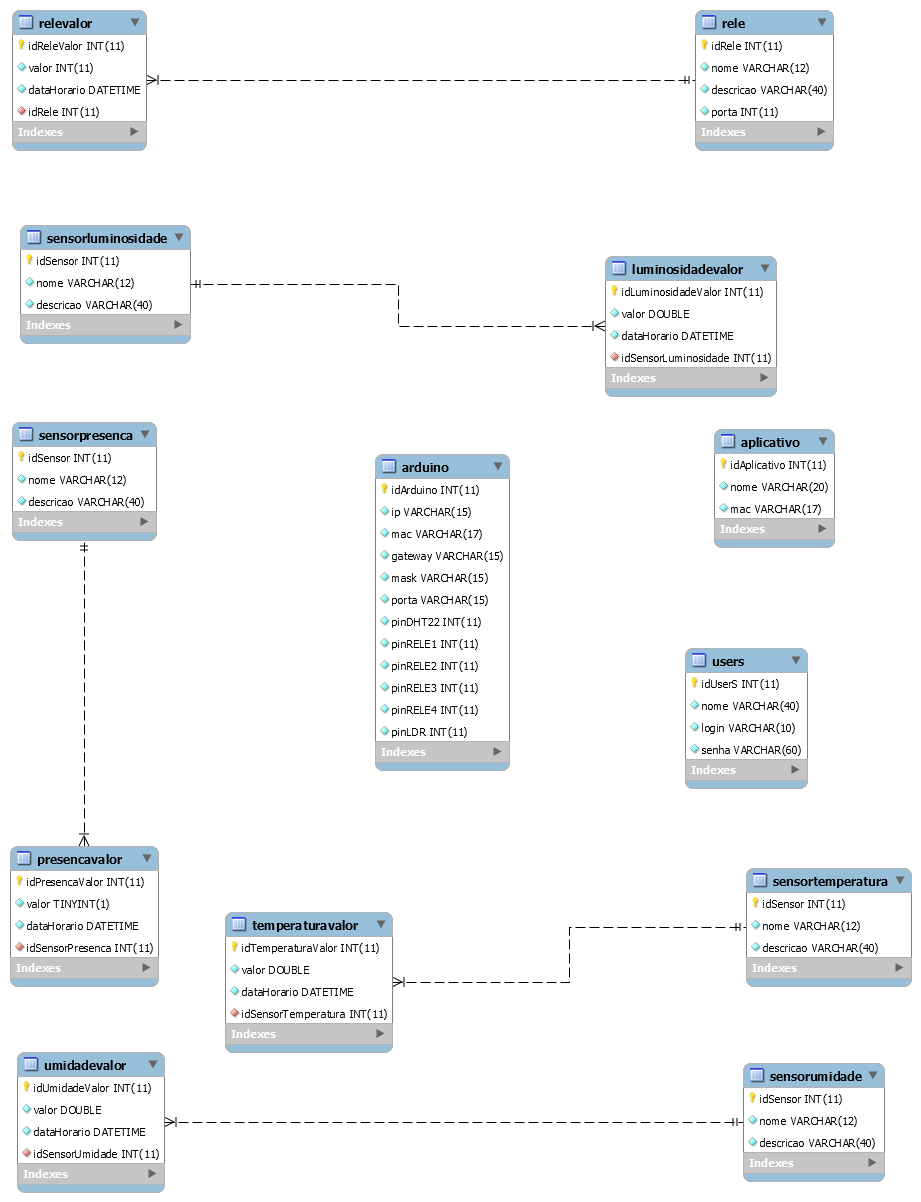
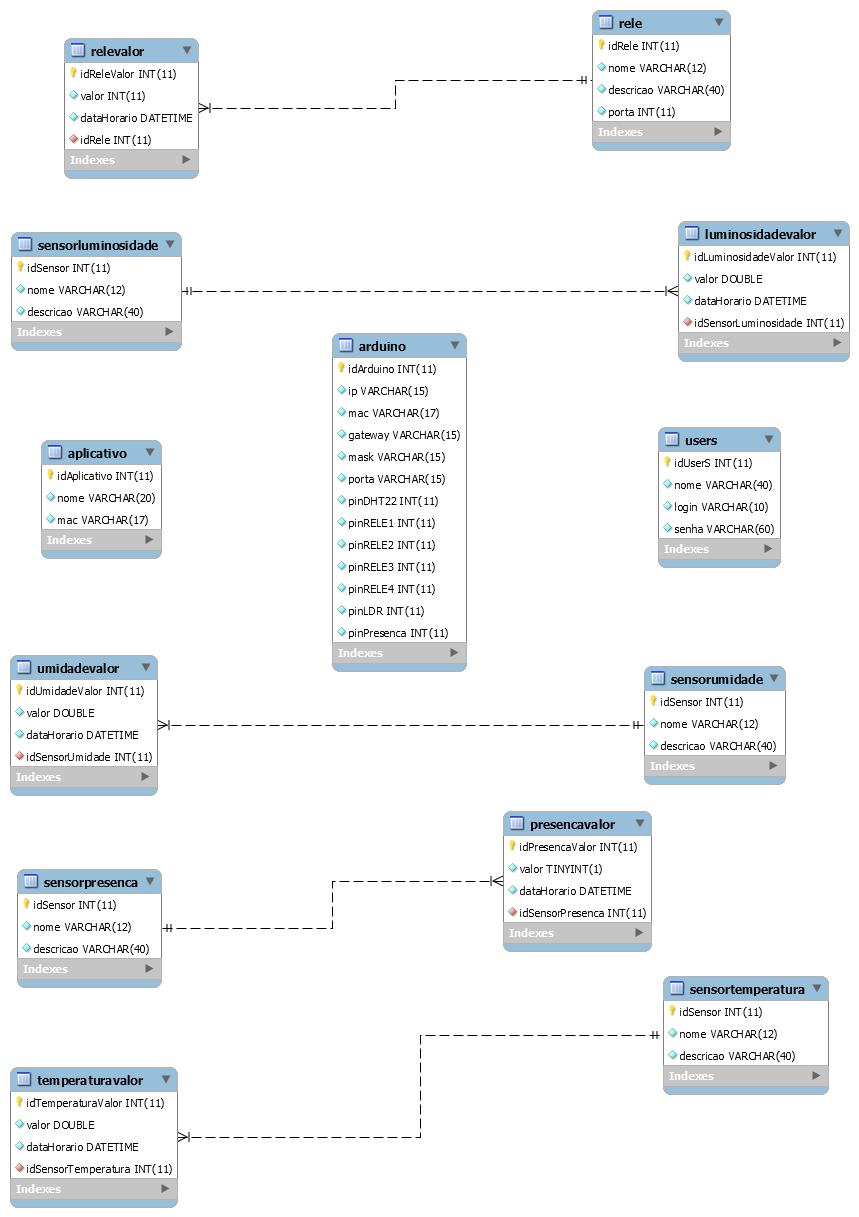
Adicionado Atributo presenca no model Arduino

diff --git a/dao/ArduinoDAO.php b/dao/ArduinoDAO.php
@@ -8,7 +8,7 @@
         }
 
         public function create($arduino) {
-            $sql = $this->con->prepare("INSERT INTO arduino(ip, mac, gateway, mask, porta, pinDHT22, pinRELE1, pinRELE2, pinRELE3, pinRELE4, pinLDR) VALUES (?, ?, ?, ?, ?, ?, ?, ?, ?, ?, ?)");
+            $sql = $this->con->prepare("INSERT INTO arduino(ip, mac, gateway, mask, porta, pinDHT22, pinRELE1, pinRELE2, pinRELE3, pinRELE4, pinLDR, pinPresenca) VALUES (?, ?, ?, ?, ?, ?, ?, ?, ?, ?, ?, ?)");
             $sql->bindParam(1, $arduino->getIP());
             $sql->bindParam(2, $arduino->getMAC());
             $sql->bindParam(3, $arduino->getGateway());
@@ -20,11 +20,12 @@
             $sql->bindParam(9, $arduino->getPinoRele3());
             $sql->bindParam(10, $arduino->getPinoRele4());
             $sql->bindParam(11, $arduino->getPinoLDR());
+            $sql->bindParam(12, $arduino->getPinoPresenca());
             $sql->execute();            
         }
 
         public function update($arduino) {
-            $sql = $this->con->prepare("UPDATE arduino SET ip = ?, mac = ?, gateway = ?, mask = ?, porta = ?, pinDHT22 = ?, pinRELE1 = ?, pinRELE2 = ?, pinRELE3 = ?, pinRELE4 = ?, pinLDR = ? WHERE idArduino = ?");
+            $sql = $this->con->prepare("UPDATE arduino SET ip = ?, mac = ?, gateway = ?, mask = ?, porta = ?, pinDHT22 = ?, pinRELE1 = ?, pinRELE2 = ?, pinRELE3 = ?, pinRELE4 = ?, pinLDR = ?, pinPresenca = ? WHERE idArduino = ?");
             $sql->bindParam(1, $arduino->getIP());
             $sql->bindParam(2, $arduino->getMAC());
             $sql->bindParam(3, $arduino->getGateway());
@@ -36,7 +37,8 @@
             $sql->bindParam(9, $arduino->getPinoRele3());
             $sql->bindParam(10, $arduino->getPinoRele4());
             $sql->bindParam(11, $arduino->getPinoLDR());
-            $sql->bindParam(12, $arduino->getIdArduino());
+            $sql->bindParam(12, $arduino->getPinoPresenca());
+            $sql->bindParam(13, $arduino->getIdArduino());
             $sql->execute();             
         }
 
@@ -65,6 +67,7 @@
             $arduino->setPinoRele3((int)$row['pinRELE3']);
             $arduino->setPinoRele4((int)$row['pinRELE4']);
             $arduino->setPinoLDR((int)$row['pinLDR']);
+            $arduino->setPinoPresenca((int)$row['pinPresenca']);
             
             return $arduino;
         }
@@ -88,6 +91,7 @@
                 $arduino->setPinoRele3((int)$row['pinRELE3']);
                 $arduino->setPinoRele4((int)$row['pinRELE4']);
                 $arduino->setPinoLDR((int)$row['pinLDR']); 
+                $arduino->setPinoPresenca((int)$row['pinPresenca']);
 
                 $Arduinos[] = $arduino;
             }

diff --git a/routes/ArduinoRouter.php b/routes/ArduinoRouter.php
@@ -19,6 +19,7 @@
             'PinoRele3'=>$arduino->getPinoRele3(), 
             'PinoRele4'=>$arduino->getPinoRele4(),
             'PinoLDR'=>$arduino->getPinoLDR(), 
+            'PinoPresenca'=>$arduino->getPinoPresenca(), 
             'porta'=>$arduino->getPorta()
             );
         }
@@ -43,6 +44,7 @@
             'PinoRele3'=>$arduino->getPinoRele3(), 
             'PinoRele4'=>$arduino->getPinoRele4(),
             'PinoLDR'=>$arduino->getPinoLDR(), 
+            'PinoPresenca'=>$arduino->getPinoPresenca(), 
             'porta'=>$arduino->getPorta()
             );
         
@@ -65,6 +67,7 @@
         $arduino->setPinoRele3($body['PinoRele3']);
         $arduino->setPinoRele4($body['PinoRele4']);
         $arduino->setPinoLDR($body['PinoLDR']);
+        $arduino->setPinoPresenca($body['PinoPresenca']);
 
         $arduinoDAO = new ArduinoDAO();
         $arduinoDAO->create($arduino);
@@ -92,6 +95,7 @@
         $arduino->setPinoRele3($body['PinoRele3']);
         $arduino->setPinoRele4($body['PinoRele4']);
         $arduino->setPinoLDR($body['PinoLDR']);
+        $arduino->setPinoPresenca($body['PinoPresenca']);
 
         $arduinoDAO->update($arduino);
 

diff --git a/model/Arduino.php b/model/Arduino.php
@@ -13,6 +13,7 @@
         Private $PinoRele3;
         Private $PinoRele4;
         Private $PinoLDR;
+        Private $PinoPresenca;
         
         Public function __construct() {
             
@@ -56,6 +57,10 @@
         
         public function getPinoLDR(){
             return $this->PinoLDR;
+        }
+
+        public function getPinoPresenca(){
+            return $this->PinoPresenca;
         }
         
         public function getPorta(){
@@ -112,6 +117,10 @@
 
         function setPinoLDR($PinoLDR) {
             $this->PinoLDR = $PinoLDR;
+        }
+        
+        function setPinoPresenca($PinoPresenca) {
+            $this->PinoPresenca = $PinoPresenca;
         }
 
             
